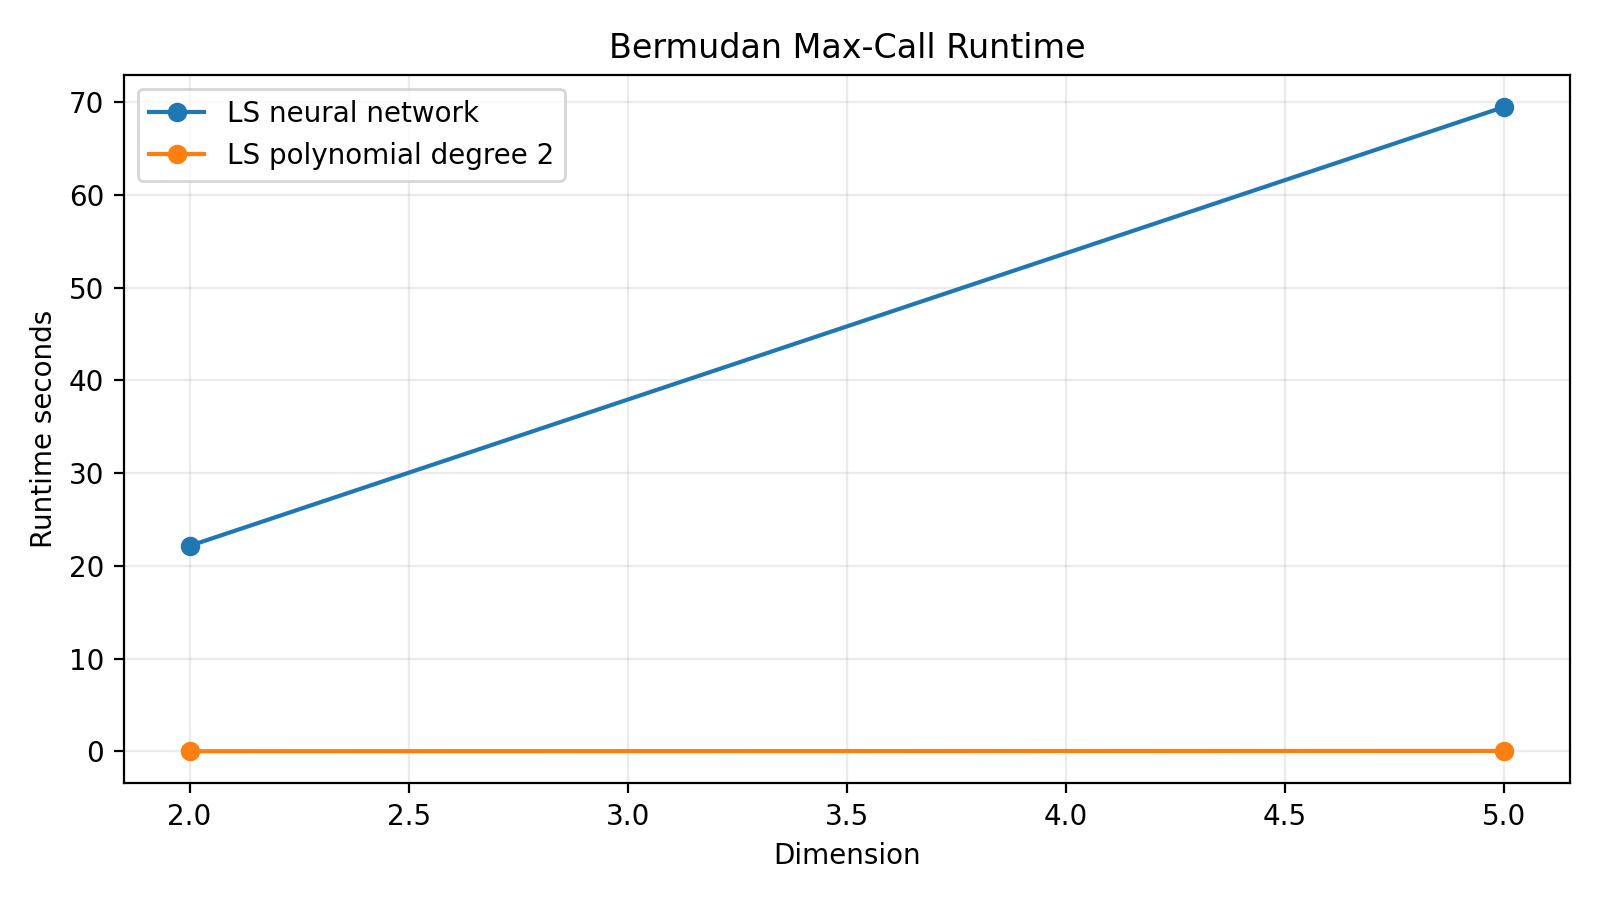
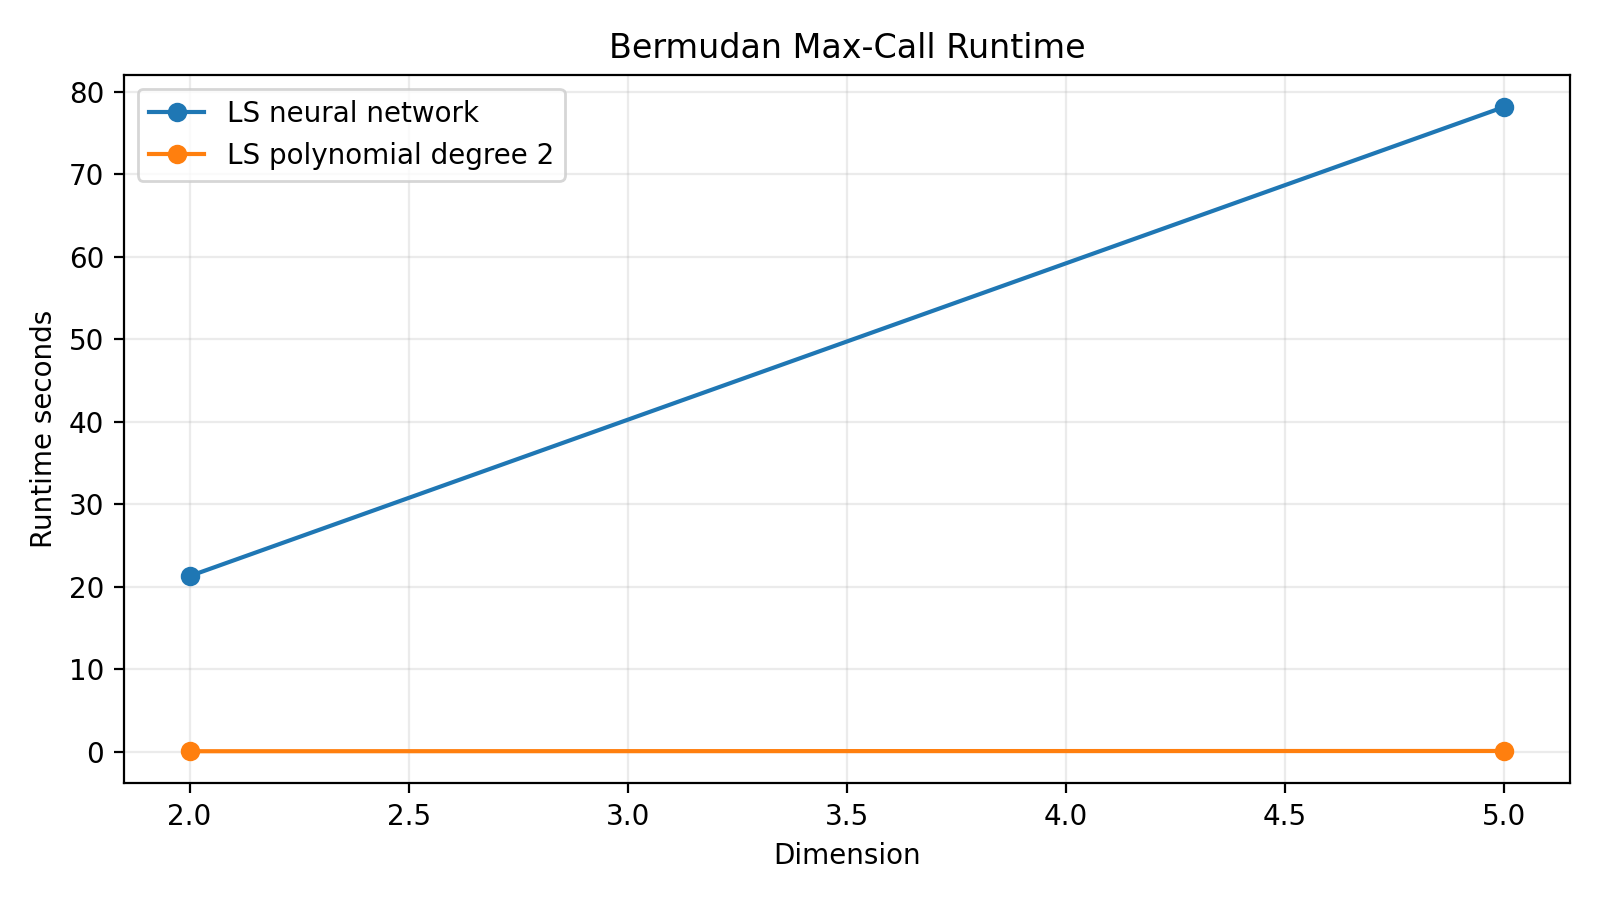
Improve figure presentation

diff --git a/scripts/run_max_call_experiment.py b/scripts/run_max_call_experiment.py
@@ -143,6 +143,11 @@ def main() -> None:
     results.to_csv(results_path, index=False)
     save_price_comparison(results, FIGURES_DIR / "max_call_price_comparison.png")
     save_runtime_plot(results, FIGURES_DIR / "max_call_runtime.png")
+    save_runtime_plot(
+        results,
+        FIGURES_DIR / "max_call_runtime_log.png",
+        log_scale=True,
+    )
 
     print("\nSummary")
     print(results.to_string(index=False, float_format=lambda value: f"{value:.6f}"))
@@ -191,7 +196,12 @@ def save_price_comparison(results: pd.DataFrame, output_path: Path) -> None:
     plt.close(fig)
 
 
-def save_runtime_plot(results: pd.DataFrame, output_path: Path) -> None:
+def save_runtime_plot(
+    results: pd.DataFrame,
+    output_path: Path,
+    *,
+    log_scale: bool = False,
+) -> None:
     fig, ax = plt.subplots(figsize=(8, 4.5))
     for method, group in results.groupby("method"):
         group = group.sort_values("dimension")
@@ -203,7 +213,11 @@ def save_runtime_plot(results: pd.DataFrame, output_path: Path) -> None:
         )
     ax.set_xlabel("Dimension")
     ax.set_ylabel("Runtime seconds")
-    ax.set_title("Bermudan Max-Call Runtime")
+    if log_scale:
+        ax.set_yscale("log")
+        ax.set_title("Bermudan Max-Call Runtime (log scale)")
+    else:
+        ax.set_title("Bermudan Max-Call Runtime")
     ax.grid(alpha=0.25)
     ax.legend()
     fig.tight_layout()

diff --git a/scripts/run_1d_put_experiment.py b/scripts/run_1d_put_experiment.py
@@ -276,9 +276,9 @@ def save_boundary_plot(
         ax.set_xlabel("Asset price")
     handles, labels = axes[0, 0].get_legend_handles_labels()
     if handles:
-        fig.legend(handles, labels, loc="upper center", ncol=3)
-    fig.suptitle("1D Bermudan Put Exercise / Continue Regions", y=0.995)
-    fig.tight_layout(rect=(0, 0, 1, 0.95))
+        fig.legend(handles, labels, loc="upper center", bbox_to_anchor=(0.5, 0.965), ncol=3)
+    fig.suptitle("1D Bermudan Put Exercise / Continue Regions", y=0.99)
+    fig.tight_layout(rect=(0, 0, 1, 0.90))
     fig.savefig(output_path, dpi=200)
     plt.close(fig)
 